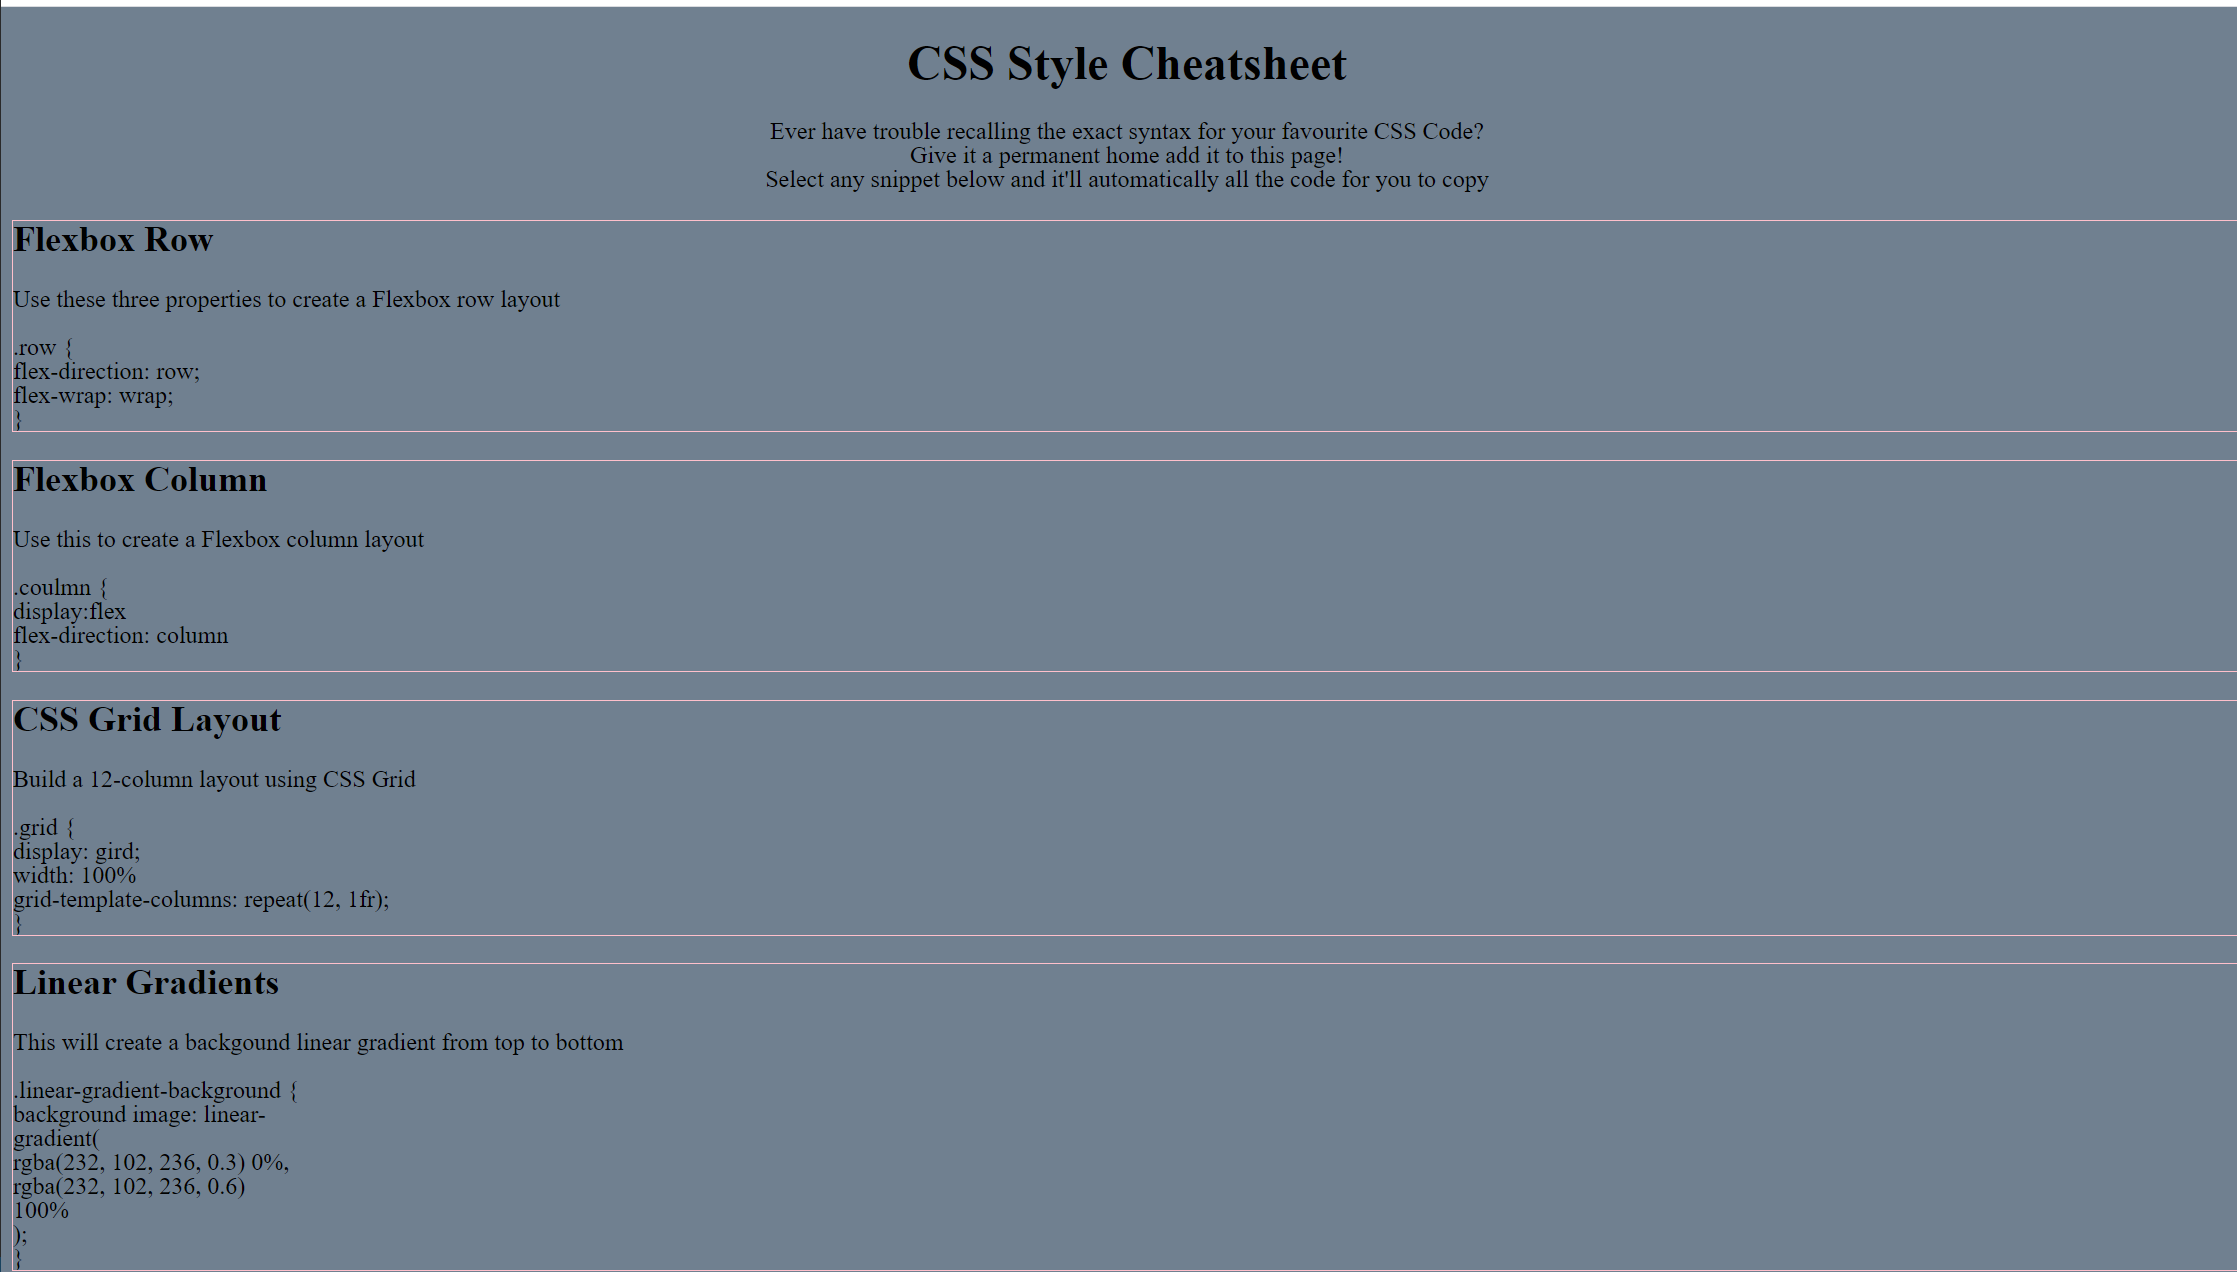
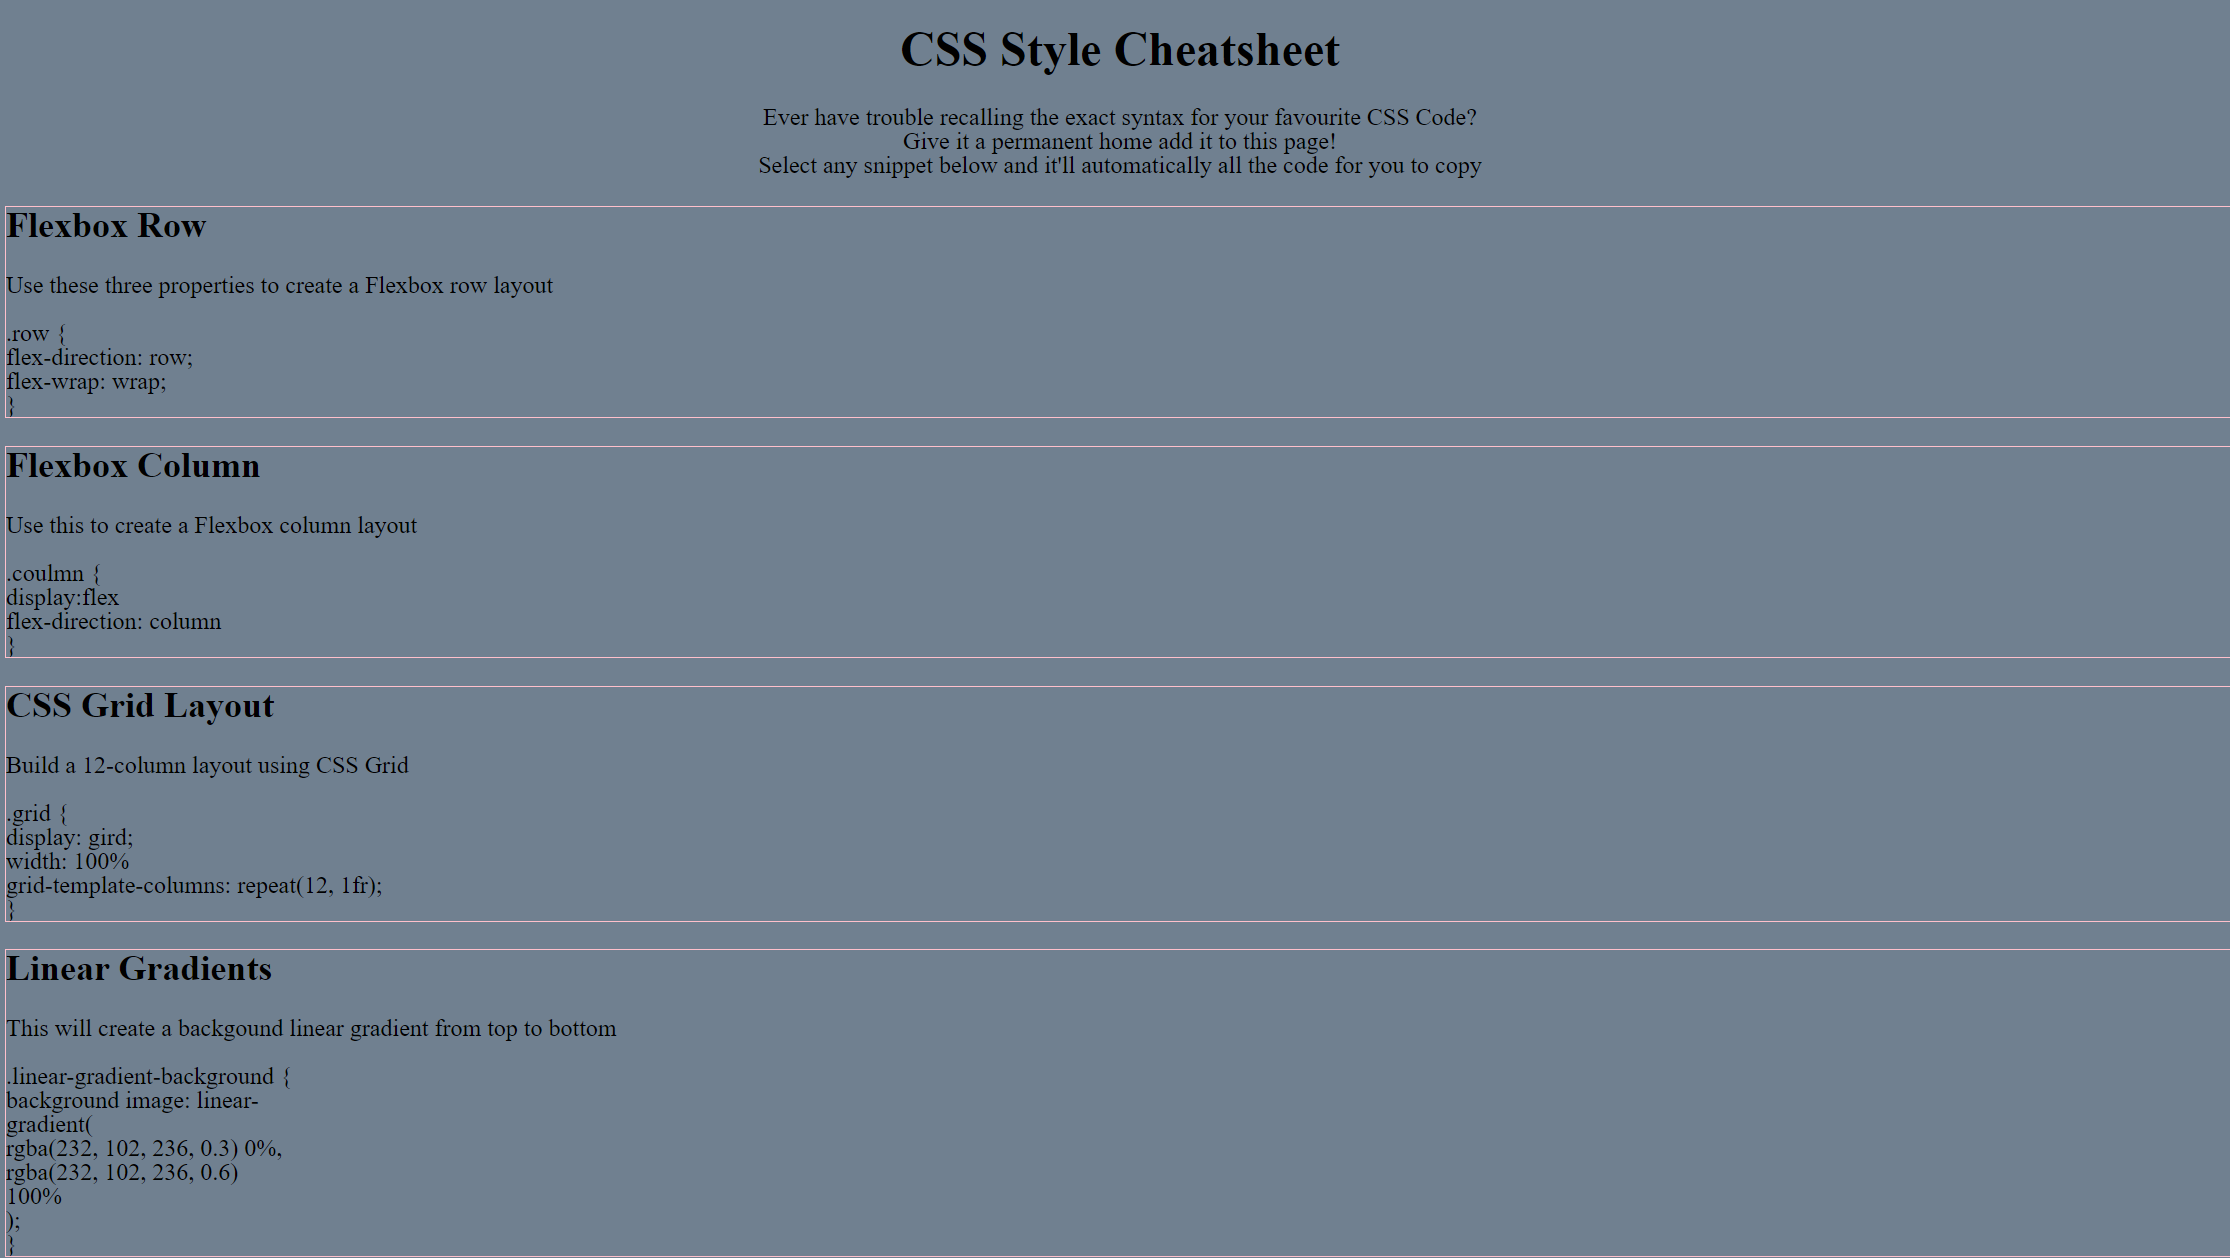
fixed sction sizing + added footer

Changed region(s): [[0.0, 0.155, 1.0, 1.0], [0.0, 0.0, 1.0, 0.062], [0.3404, 0.093, 0.6807, 0.155]]

diff --git a/Assets/css/stylesheet.css b/Assets/css/stylesheet.css
@@ -6,10 +6,11 @@ background-color: grey;
     outline: 1px lightgray;
     display: flex;
     justify-content: center;
-    justify-content: space-around;
+    justify-content: space-evenly;
     background-color: black;
-    color: black;
+    color: #e5e5e5;
     width: 100%;
+    margin-bottom: 25px;
 }
 
 #displayPicture {
@@ -22,10 +23,10 @@ background-color: grey;
 
 header h1 {
     font-family: 'Megrim', cursive;
-    font-size: 40px;
-    color: white;
+    font-size: 45px;
+    color:#e5e5e5;
     text-decoration: none;
-    padding-top: 20px;
+    padding-top: 22px;
     background-color: black;
 
 }
@@ -41,7 +42,7 @@ header h1 {
     display: inline-block;
     margin: 30px 160px 30px 30px;
     color: white;
-    font-size: 24px;
+    font-size: 32px;
     font-family: 'Raleway', sans-serif;
     font-weight: 500;
     padding: 2px 5px;
@@ -53,16 +54,17 @@ header h1 {
 #flex {
 display: flex;
 flex-wrap: wrap;
-justify-content: space-evenly;
+justify-content: space-around
 }
 
 #aside-1 {
-    flex-basis: 30%;
+    flex-basis: 25%;
     height: 20%;
     margin: 10px;
-    padding-bottom: 101px;
-    border: 1px black solid;
+    padding-bottom: 128px;
+    border-right: 10px black solid;
     font-family: 'Raleway', sans-serif;
+    font-size: 20px;
     text-align: right;
     box-sizing: border-box;
     padding-right: 15px;
@@ -70,24 +72,25 @@ justify-content: space-evenly;
 
 }
 #section-1 {
-    flex-basis: 65%;
+    flex-basis: 70%;
     height: 20%;
     margin: 10px;
-    padding: 1rem;
+    padding: 21px;
     border: 1px black solid;
     font-family: 'Raleway', sans-serif;
-    font-size: ;
+    font-size:20px;
     text-align: center;
     box-sizing: border-box;
 }
 
 #aside-2 {
-    flex-basis: 30%;
+    flex-basis: 25%;
     height: 20%;
     margin: 10px;
     padding-bottom: 101px;
-    border: 1px black solid;
+    border-right: 10px black solid;
     font-family: 'Raleway', sans-serif;
+    font-size: 20px;
     text-align: right;
     box-sizing: border-box;
     padding-right: 15px;
@@ -95,23 +98,32 @@ justify-content: space-evenly;
 
 .section-2-projects {
     flex-direction: row;
-    justify-content: space-evenly;
     flex-wrap: wrap;
-    flex-basis: 65%;
-    height: 700px;
-    padding-top: 30px;
-    padding-left: 20px;
-    padding-right: 20px;
+    flex-basis: 70%;
+    height: 645px;
+   padding: 20px;
     margin: 10px;
     border: black 1px solid;
     box-sizing: border-box;
 }
 
-.projectImage {
-    width: 290px;
-    height: 260px;
+.projectImages {
+    width: 350px;
+    height: 275px;
     object-fit: cover;
-    border: solid black 1px;
-    margin: 20px;
+    box-sizing: border-box;
+    /* border: solid black 1px; */
+    margin: 2px;
 }
 
+.bottomFooter {
+    width: 100%;
+    height: 100px;
+    margin-top: 100px;
+    background-color: black;
+    color: #e5e5e5;
+}
+
+.bottomFooter ul li {
+    color: #e5e5e5;
+}

diff --git a/index.html b/index.html
@@ -21,7 +21,7 @@
     <h1>Joshua-Rhymer Bernardo</h1>
 <nav>
     <ul class="navigation">
-        <li><a></a>About</li>
+        <li></a>About</a></li>
         <li><a>Projects</a></li>
         <li><a>Contact</a></li>
     </ul>
@@ -32,8 +32,8 @@
         <h2>About Me</h2>
     </section>
     <section id= "section-1">
-        <p> Hi there!, my name is Joshua-Rhymer Bernardo. I'm currently studying to become a full stack developer.<br>
-        Here I have utilised the core skills in HTML, CSS and Javascript required<br>to develop my current and upcoming projects on this page.<br>
+        <p> Hi there!, my name is Joshua-Rhymer Bernardo and I'm currently studying to become a full stack developer.<br>
+        Here I have utilised the core skills in HTML, CSS and Javascript required<br>to develop my current listed projects on this page .<br>
         I strive to succeed through this course and aim to one day become<br>the I best can be as a full stack developer.
         </p>
     </section>
@@ -42,12 +42,12 @@
     </section>
     <section id= "flex" class ="section-2-projects">
        
-        <img class="projectImage" src="Assets/images/Cheatsheet.png" alt="Snippet photo of my CSScheatsheet">
-        <img class="projectImage" src="Assets/images/domains.jpg" alt="Snippet photo of my CSScheatsheet">
-        <img class="projectImage" src="Assets/images/charts.jpg" alt="Snippet photo of my CSScheatsheet">
-        <img class="projectImage" src="https://picsum.photos/200" alt="Snippet photo of my CSScheatsheet">
-        <img class="projectImage" src="https://picsum.photos/200" alt="Snippet photo of my CSScheatsheet">
-        <img class="projectImage" src="https://picsum.photos/200" alt="Snippet photo of my CSScheatsheet">
+        <img class="projectImages" src="Assets/images/Cheatsheet.png" alt="Snippet photo of my CSScheatsheet">
+        <img class="projectImages" src="Assets/images/domains.jpg" alt="Snippet photo of my CSScheatsheet">
+        <img class="projectImages" src="Assets/images/charts.jpg" alt="Snippet photo of my CSScheatsheet">
+        <img class="projectImages" src="https://picsum.photos/200" alt="Snippet photo of my CSScheatsheet">
+        <img class="projectImages" src="https://picsum.photos/200" alt="Snippet photo of my CSScheatsheet">
+        <img class="projectImages" src="https://picsum.photos/200" alt="Snippet photo of my CSScheatsheet">
        
     </section>
 
@@ -55,7 +55,13 @@
 
 
 
-<footer>
+<footer class="bottomFooter" >
+    <ul>
+        <li><a href="#">Contact</a></li>
+        <li><a href="#">Facebook</a></li>
+        <li><a href="#">Disclaimer</a></li>
+    </ul>
+    <p>Ⓒ Joshua-Rhymer Bernardo</p>  
 </footer>
     
 </body>
